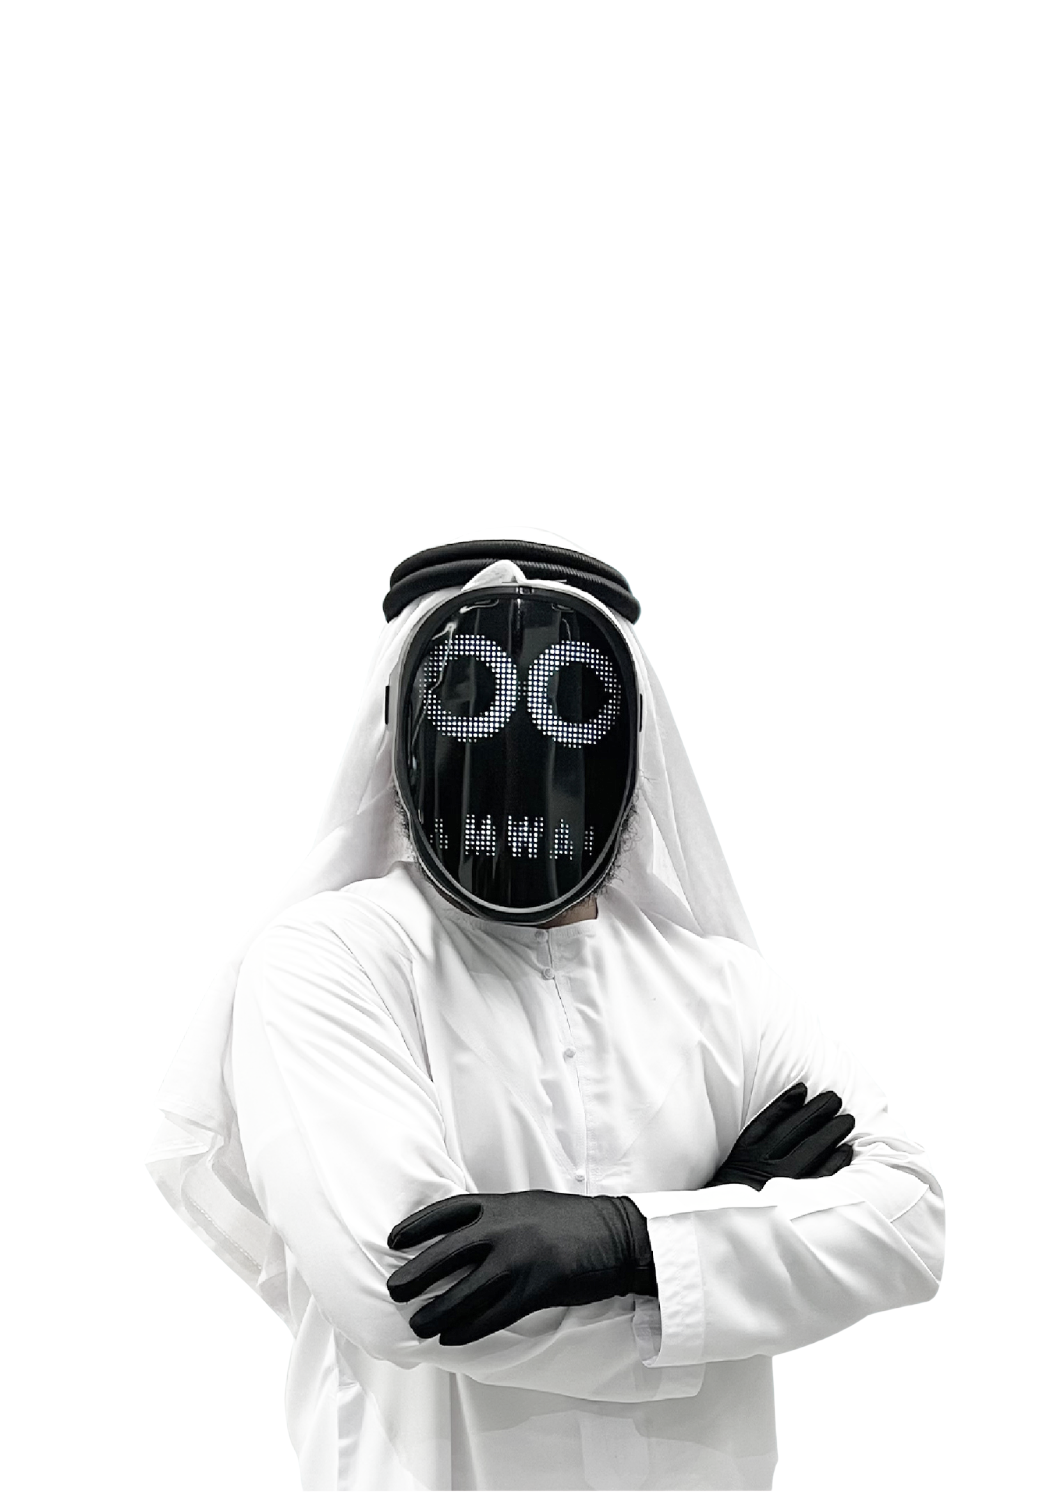
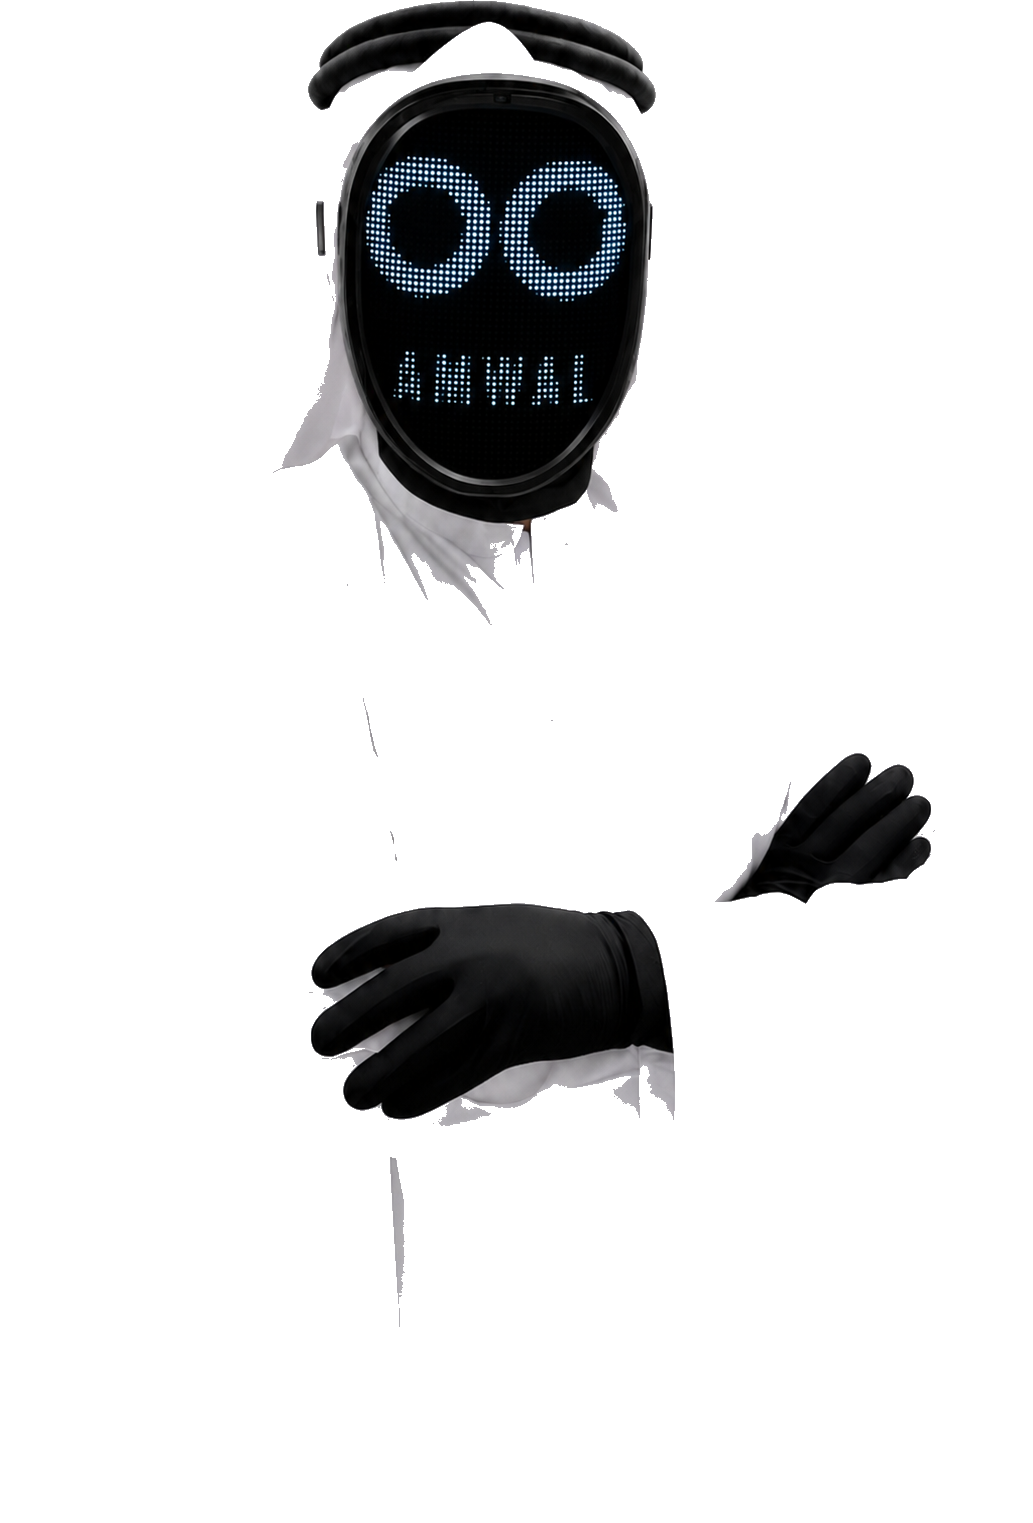
feat: add character hero on right side, all pages

diff --git a/src/app/globals.css b/src/app/globals.css
@@ -146,33 +146,32 @@ body {
   }
 }
 
-/* ─── Brand watermark — all screens, behind all content ─── */
+/* ─── Brand watermark — right side hero, all screens ─── */
 .brand-watermark {
   display: block;
   position: fixed;
-  left: 0;
-  top: 50%;
-  transform: translateY(-50%);
-  height: 80vh;
+  right: 0;
+  bottom: 0;
+  height: 88vh;
   width: auto;
   z-index: 0;
   pointer-events: none;
   user-select: none;
-  opacity: 0.9;
+  opacity: 1;
   -webkit-mask-image:
-    linear-gradient(to right, transparent 0%, black 18%, black 72%, transparent 96%),
-    linear-gradient(to bottom, transparent 0%, black 10%, black 85%, transparent 100%);
+    linear-gradient(to left, black 40%, transparent 100%),
+    linear-gradient(to top, black 60%, transparent 100%);
   -webkit-mask-composite: destination-in;
   mask-image:
-    linear-gradient(to right, transparent 0%, black 18%, black 72%, transparent 96%),
-    linear-gradient(to bottom, transparent 0%, black 10%, black 85%, transparent 100%);
+    linear-gradient(to left, black 40%, transparent 100%),
+    linear-gradient(to top, black 60%, transparent 100%);
   mask-composite: intersect;
 }
 
-@media (max-width: 640px) {
+@media (max-width: 768px) {
   .brand-watermark {
-    height: 55vh;
-    opacity: 0.7;
+    height: 50vh;
+    opacity: 0.5;
   }
 }
 

diff --git a/src/app/layout.tsx b/src/app/layout.tsx
@@ -22,6 +22,8 @@ export default function RootLayout({
   return (
     <html lang="ar" dir="rtl" className={`${cairo.variable} h-full antialiased`}>
       <body className="min-h-full flex flex-col bg-background text-foreground font-sans">
+        {/* eslint-disable-next-line @next/next/no-img-element */}
+        <img src={`${process.env.NEXT_PUBLIC_BASE_PATH ?? ""}/brand/character.png?v=3`} alt="" aria-hidden="true" className="brand-watermark print-hidden" />
         <SiteHeader />
         <div className="relative flex flex-1 flex-col">{children}</div>
       </body>
